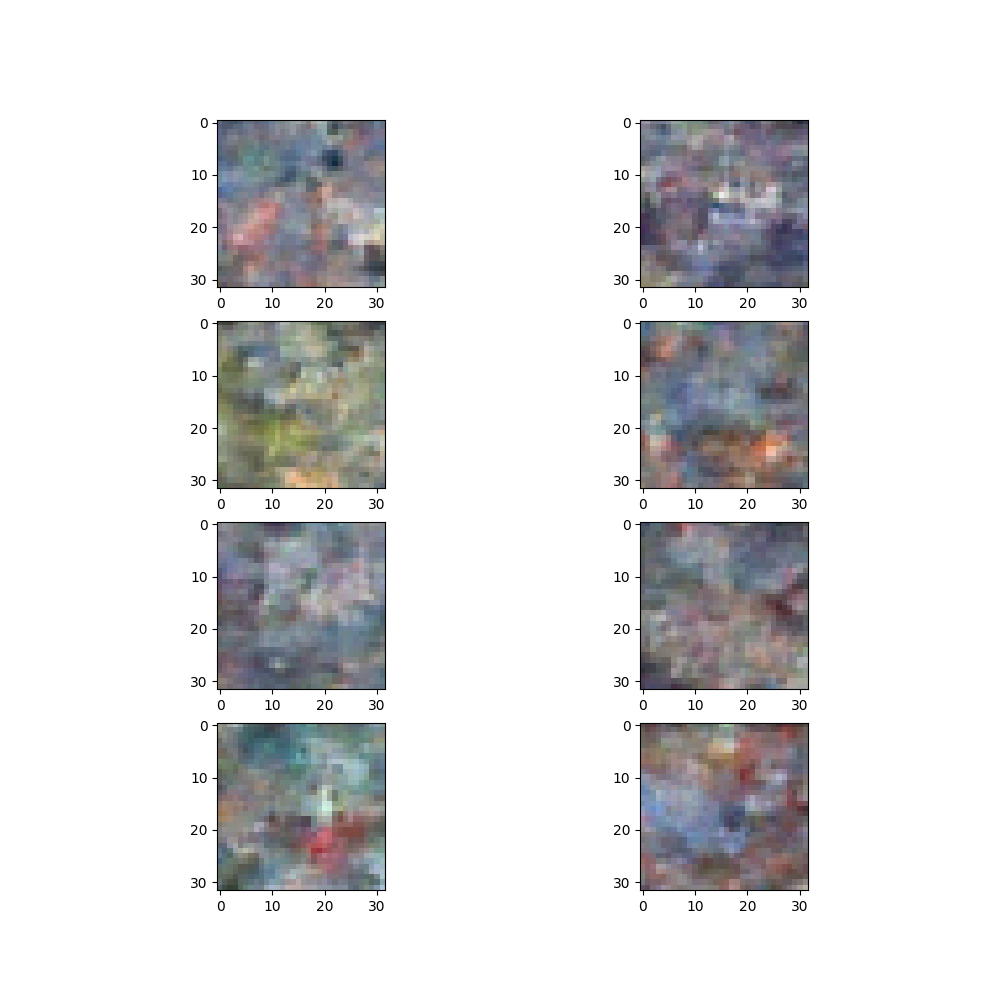
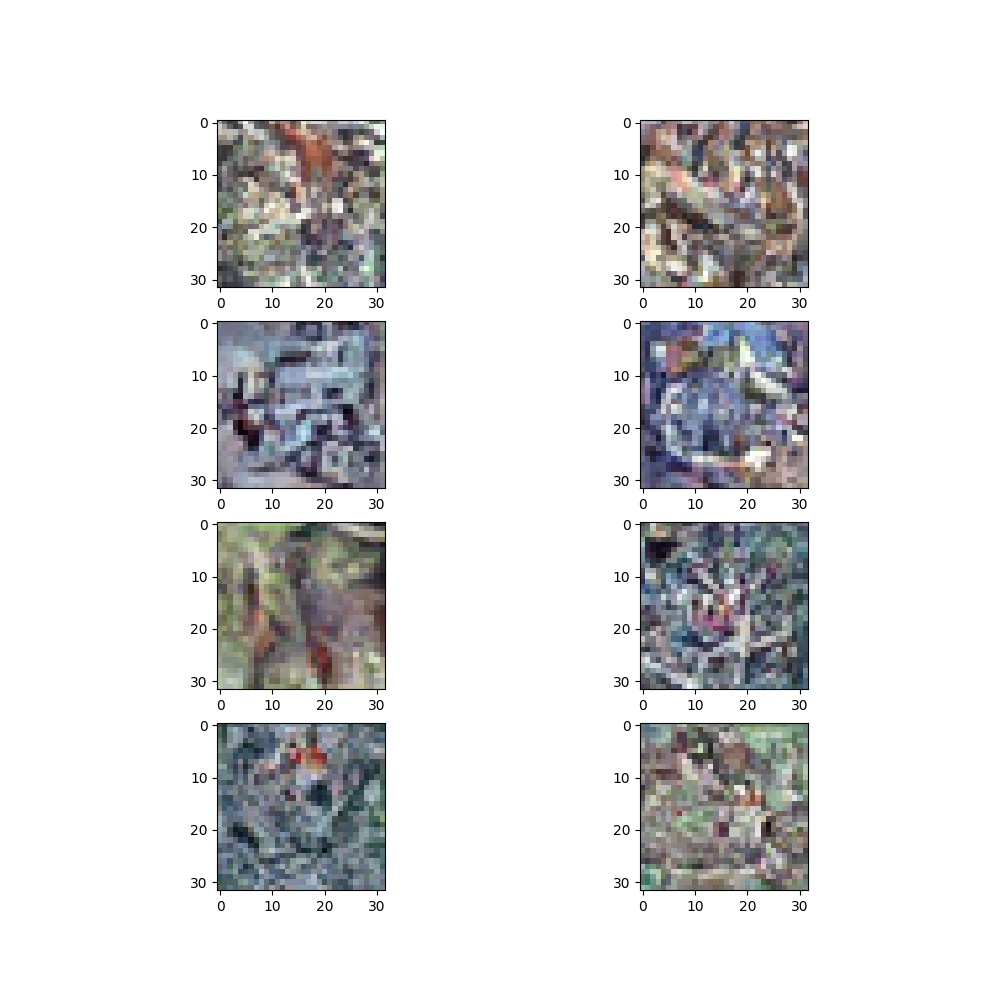
minor code change

Changed region(s): [[0.217, 0.124, 0.403, 0.899], [0.62, 0.124, 0.806, 0.899]]

diff --git a/ex02_main.py b/ex02_main.py
@@ -63,7 +63,7 @@ def visualize_diffusion(images, diffusor, timesteps, store_path, reverse_transfo
     print(f"Visualization saved to {store_path}")
 
 
-def sample_and_save_images(n_images, diffusor, model, device, store_path,reverse_transform):
+def sample_and_save_images(n_images, diffusor, model, device, store_path,reverse_transform,epoch):
     # TODO: Implement - adapt code and method signature as needed
     model.eval()  # Set model to evaluation mode
     generated_images = diffusor.sample(
@@ -78,9 +78,9 @@ def sample_and_save_images(n_images, diffusor, model, device, store_path,reverse
     for i in range(len(generated_images)):
         plt.subplot(n_images//2, 2, i+1)
         plt.imshow(reverse_transform(generated_images[i].cpu()))
-        
-    plt.savefig(os.path.join(store_path, f"generated_image_{i}.png"))
-    
+            
+    plt.savefig(os.path.join(store_path, f"Epoch_{epoch}_generated_image_{i}.png"))
+    plt.close()
 
     
     print(f"Generated images saved to {store_path}")
@@ -126,12 +126,12 @@ def train(model, trainloader, optimizer, diffusor, epoch, device, args):
             break
 
 
-def test_vis(model, testloader, diffusor, device,reverse_transform, args):
+def test_vis(model, testloader, diffusor, device,reverse_transform, args,epoch=None):
     # TODO (2.2): implement testing functionality, including generation of stored images.
     test_without_vis(model, testloader, diffusor, device, args)
     # Generate and save test images
     store_path = f"./results/{args.run_name}"
-    sample_and_save_images(8, diffusor, model, device, store_path,reverse_transform)
+    sample_and_save_images(8, diffusor, model, device, store_path,reverse_transform,epoch)
 
 
 
@@ -144,7 +144,7 @@ def run(args):
     device = "cuda" if not args.no_cuda and torch.cuda.is_available() else "cpu"
 
     model = Unet(dim=image_size, channels=channels, dim_mults=(1, 2, 4,)).to(device)
-    # model.load_state_dict(torch.load(os.path.join(r"C:\Study\Advanced Deep Learning\Exercises\Exercise 2\models", args.run_name, f"ckpt.pt"),weights_only=True))
+    model.load_state_dict(torch.load(os.path.join(r"C:\Study\Advanced Deep Learning\Exercises\Exercise 2\models", args.run_name, f"ckpt.pt"),weights_only=True))
     optimizer = AdamW(model.parameters(), lr=args.lr)
 
     my_scheduler = lambda x: linear_beta_schedule(0.0001, 0.02, x)
@@ -175,7 +175,7 @@ def run(args):
 
     for epoch in range(epochs):
         train(model, trainloader, optimizer, diffusor, epoch, device, args)
-        test_vis(model, valloader, diffusor, device,reverse_transform, args)
+        test_vis(model, valloader, diffusor, device,reverse_transform, args,epoch)
 
     test_vis(model, testloader, diffusor, device, args)
 
